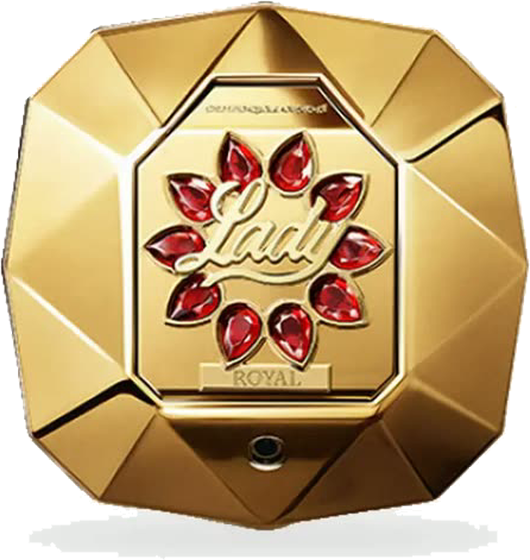
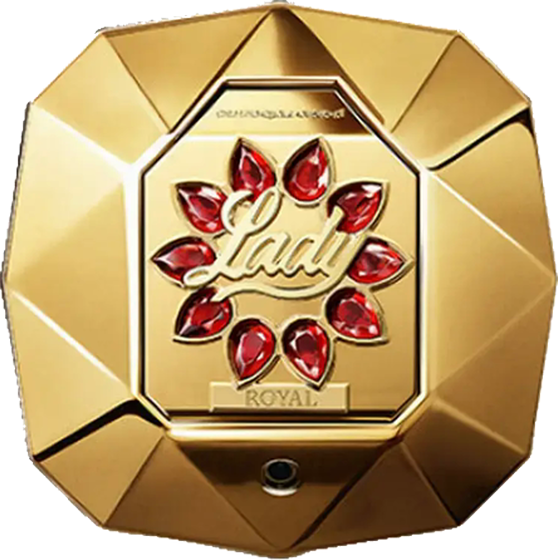
Coleção 3D: tira sombra branca de 3 frascos e libera as setas da roda

diff --git a/site perfume/thekingofparfums-3/index.html b/site perfume/thekingofparfums-3/index.html
@@ -226,7 +226,7 @@ section{position:relative;padding:clamp(80px,12vw,150px) clamp(20px,5vw,72px)}
 .colecao .pin{position:sticky;top:0;height:100vh;overflow:hidden;display:flex;flex-direction:column;align-items:center;justify-content:center;padding:80px 20px 40px}
 .colecao header{text-align:center;margin-bottom:clamp(20px,4vh,46px)}
 .colecao h2{font-size:clamp(34px,4.4vw,60px);margin-top:12px}
-.scene3{--cw:min(250px,54vw);--r:calc(var(--cw)*2.78);width:var(--cw);height:calc(var(--cw)*1.56);max-height:54vh;perspective:1800px;position:relative}
+.scene3{--cw:min(250px,54vw);--r:calc(var(--cw)*2.78);width:var(--cw);height:calc(var(--cw)*1.56);max-height:48vh;perspective:1800px;position:relative}
 .carousel{position:absolute;inset:0;transform-style:preserve-3d;transform:translateZ(calc(var(--r)*-1)) rotateX(calc(-7deg + var(--mtx,0deg))) rotateY(calc(var(--cr,0deg) + var(--mty,0deg)))}
 .slot{position:absolute;inset:0;transform-style:preserve-3d;transform:rotateY(calc(var(--i)*var(--step,25.714deg))) translateZ(calc(var(--r) + var(--lift,0px)))}
 .card{position:absolute;inset:0;display:block;text-decoration:none;transform-style:preserve-3d;transform:rotateX(var(--hx,0deg)) rotateY(var(--hy,0deg));transition:transform .6s var(--ease-out)}
@@ -245,13 +245,13 @@ section{position:relative;padding:clamp(80px,12vw,150px) clamp(20px,5vw,72px)}
 .card h3{font-size:20px;margin-top:3px}
 .card p{margin-top:2px;color:var(--text-secondary);font-size:13px}
 .card .go{display:inline-block;margin-top:7px;font-family:var(--mono);font-size:11px;letter-spacing:.16em;text-transform:uppercase;color:var(--accent)}
-.disc{position:absolute;left:50%;top:100%;width:calc(var(--r)*2.4);height:calc(var(--r)*2.4);margin:calc(var(--r)*-1.2) 0 0 calc(var(--r)*-1.2);border-radius:50%;transform:translateY(26px) rotateX(90deg);pointer-events:none;background:radial-gradient(circle,transparent 38%,rgba(217,164,65,.5) 38.3%,transparent 38.8%,transparent 44%,rgba(217,164,65,.22) 44.2%,transparent 44.6%,rgba(42,13,19,.0) 47%),repeating-conic-gradient(from 0deg,rgba(217,164,65,.07) 0deg 2deg,transparent 2deg 12.857deg),radial-gradient(circle,rgba(70,20,28,.85) 0%,rgba(42,13,19,.6) 42%,transparent 66%)}
-.colecao .nav3{margin-top:clamp(20px,3.5vh,36px);display:flex;align-items:center;gap:22px}
+.disc{position:absolute;left:50%;top:100%;width:calc(var(--r)*2.2);height:calc(var(--r)*2.2);margin:calc(var(--r)*-1.1) 0 0 calc(var(--r)*-1.1);border-radius:50%;transform:translateY(40px) rotateX(90deg);pointer-events:none;background:radial-gradient(circle,transparent 38%,rgba(217,164,65,.5) 38.3%,transparent 38.8%,transparent 44%,rgba(217,164,65,.22) 44.2%,transparent 44.6%,rgba(42,13,19,.0) 47%),repeating-conic-gradient(from 0deg,rgba(217,164,65,.07) 0deg 2deg,transparent 2deg 12.857deg),radial-gradient(circle,rgba(70,20,28,.85) 0%,rgba(42,13,19,.6) 42%,transparent 66%)}
+.colecao .nav3{position:relative;z-index:5;margin-top:clamp(72px,11vh,110px);display:flex;align-items:center;gap:22px}
 .colecao .nav3 button{width:44px;height:44px;border-radius:50%;border:1px solid var(--line);background:rgba(26,7,11,.5);color:var(--accent);font-size:18px;cursor:pointer;transition:background .3s,border-color .3s}
 .colecao .nav3 button:hover{background:rgba(217,164,65,.15);border-color:var(--accent)}
 .colecao .idx{min-width:220px;text-align:center;font-family:var(--mono);font-size:12px;letter-spacing:.16em;text-transform:uppercase;color:var(--text-secondary)}
 .colecao .idx b{color:var(--accent);font-weight:400}
-.colecao .all{margin-top:14px;font-family:var(--mono);font-size:11px;letter-spacing:.18em;text-transform:uppercase;color:var(--text-secondary);text-decoration:none;border-bottom:1px solid var(--accent-muted);padding-bottom:3px}
+.colecao .all{position:relative;z-index:5;margin-top:14px;font-family:var(--mono);font-size:11px;letter-spacing:.18em;text-transform:uppercase;color:var(--text-secondary);text-decoration:none;border-bottom:1px solid var(--accent-muted);padding-bottom:3px}
 .colecao .all:hover{color:var(--accent)}
 .colecao .floor{position:absolute;left:50%;bottom:6%;width:min(900px,120vw);height:120px;transform:translateX(-50%);background:radial-gradient(ellipse at center,rgba(217,164,65,.16),transparent 65%);pointer-events:none}
 @media (prefers-reduced-motion: reduce){
@@ -888,7 +888,7 @@ addEventListener('DOMContentLoaded', () => {
         c.style.setProperty('--op', clamp((f - 0.15) * 3, 0, 1).toFixed(3));
         c.style.setProperty('--sh', (50 + a * 2.2).toFixed(1) + '%');
         const fr3 = Math.pow(Math.max(0, f), 14);              // 1 só no card da frente
-        slots[i].style.setProperty('--lift', (fr3 * 90).toFixed(1) + 'px');
+        slots[i].style.setProperty('--lift', (fr3 * 55).toFixed(1) + 'px');
         c.style.setProperty('--pz', (30 + fr3 * 50).toFixed(1) + 'px');
         c.style.setProperty('--ps', (1 + fr3 * 0.08).toFixed(3));
       });
